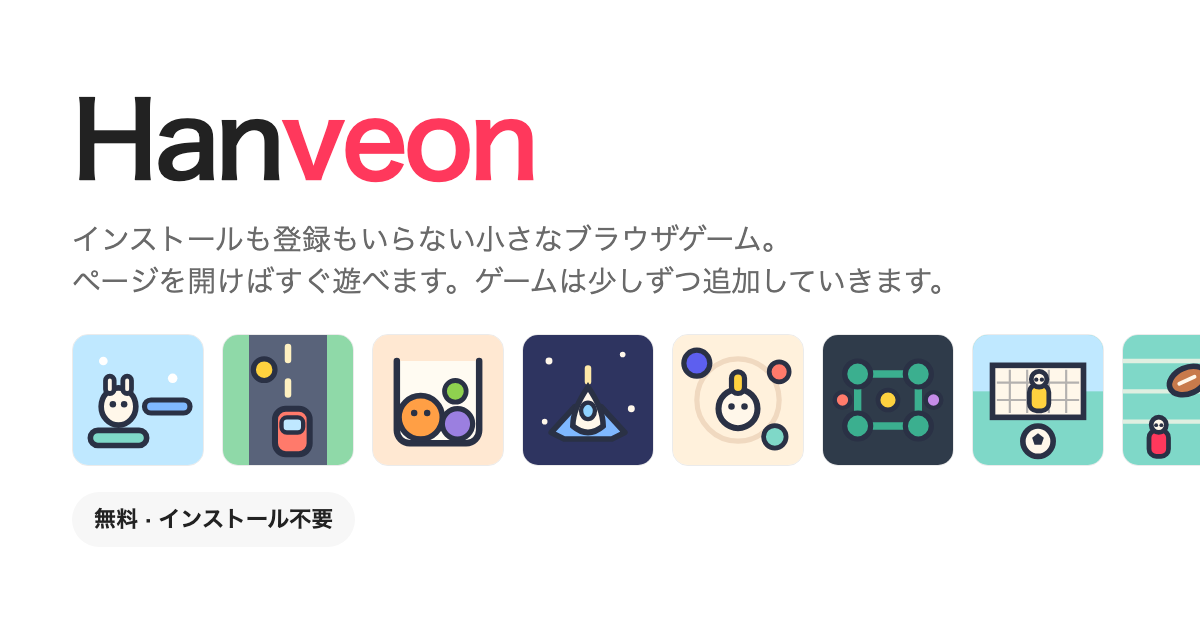
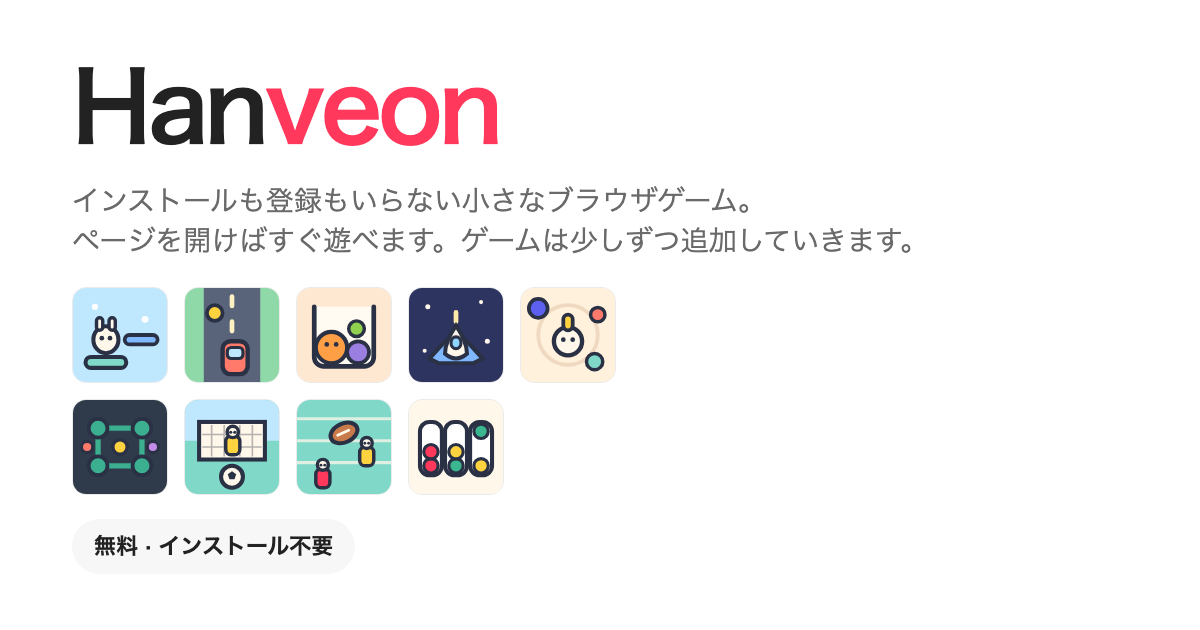
대문 대표 그림 — 게임이 늘어도 안 잘리게

Changed region(s): [[0.0617, 0.0905, 1.0, 0.9048]]

diff --git a/_tasks/2026-08-24-대문-대표그림-잘림-고치기.md b/_tasks/2026-08-24-대문-대표그림-잘림-고치기.md
@@ -1,0 +1,234 @@
+# 대문 대표 그림이 잘리는 것 고치기
+
+> **급하다.** 카톡·트위터에 `hanveon.com` 을 붙이면 나오는 그림이 지금 깨져 있다.
+> 게임 여덟 개 때부터(휙휙 패스) 그랬고, 아홉 개인 지금은 하나가 아예 안 나온다.
+
+## 무엇이 문제인가
+
+`scripts/make-og.mjs` 의 게임 그림 줄이 **132px 고정 · 줄바꿈 없음**이다.
+
+```
+게임 7개 → 7×132 + 6×18 = 1104px   들어감
+게임 8개 →                1254px   여덟째가 반쯤 잘림
+게임 9개 →                1332px   아홉째는 화면 밖
+```
+
+그림은 1200px 이다. **아홉째가 화면 밖이라 다시 만들어도 그림이 안 바뀐다** —
+`home` 그림 여섯 장이 바이트까지 똑같이 나온다.
+
+**이건 지시서를 쓴 쪽의 잘못이다.** 단계 4에서 게임 여섯 개에 맞춰 짜 놓고
+게임이 늘 때를 생각 안 했다. 클로드 코드는 「손댈 파일」에 없어서 안 건드린 것이 맞다.
+
+## 어떻게 고치나
+
+**게임 개수를 보고 크기와 줄 수를 정한다.** 일곱까지는 한 줄, 그 위는 두 줄.
+
+| 게임 수 | 한 줄에 | 크기 |
+|---|---|---|
+| 6 | 6개 | 132px |
+| 7 | 7개 | 129px |
+| **9 (지금)** | **5개 · 두 줄** | **96px** |
+| 14 | 7개 · 두 줄 | 96px |
+| 20 | 10개 · 두 줄 | 85px |
+| 22 | 11개 · 두 줄 | 76px |
+
+22개까지 안 잘린다. 그 위로 가면 **뒤를 빼고 화면에 알린다** — 조용히 빠지지 않는다.
+
+> **이 지시서는 실제로 넣고 돌려서 확인했다.** 아홉 개가 두 줄(5+4)로 다 들어가고,
+> 세로도 안 넘치고, 게임 그림 54장은 전과 같다. 아래 코드가 그때 쓴 것 그대로다.
+
+---
+
+## 손댈 파일
+
+1. `scripts/make-og.mjs` — 세 군데
+2. `design/new-game-checklist.md` — 확인 한 줄
+3. 그러고 나서 `node scripts/make-og.mjs`
+
+**다른 것은 아무것도 안 건드린다.** 게임·대문·읽는 쪽·글 전부 그대로.
+
+---
+
+## 1. `scripts/make-og.mjs`
+
+### 1-1. CSS 의 대문 칸을 갈아 끼운다
+
+`CSS` 안의 이 덩어리를
+
+```css
+  /* 대문 그림 — 그림 여섯을 한 줄로 늘어놓는다 */
+  body.home{flex-direction:column;align-items:flex-start;justify-content:center;gap:22px}
+  .home .name{font-size:104px}
+  .home .desc{font-size:29px;max-width:1000px}
+  .arts{display:flex;gap:18px;margin-top:10px}
+  .arts .art{width:132px;height:132px;border-radius:16px;border:1px solid ${BEBE}}
+```
+
+아래로 바꾼다. **크기를 CSS 에서 빼고 자바스크립트가 정하게 한다.**
+
+```css
+  /* 대문 그림 — 게임 그림을 늘어놓는다.
+     크기와 줄 수는 artsLayout() 이 게임 개수를 보고 정한다.
+     예전에는 132px 한 줄 고정이라 여덟 개부터 잘려 나갔다. */
+  body.home{flex-direction:column;align-items:flex-start;justify-content:center;gap:20px}
+  .home .name{font-size:96px}
+  .home .desc{font-size:28px;max-width:1000px}
+  .arts{display:flex;flex-wrap:wrap;margin-top:6px}
+  .arts .art{flex:none;border-radius:14px;border:1px solid ${BEBE}}
+```
+
+> **주의 — 이 덩어리는 백틱 템플릿 문자열 안이다.**
+> 주석에 백틱(`` ` ``)을 쓰면 문자열이 거기서 끊겨 빌드가 깨진다.
+> 위 주석에 `artsLayout()` 을 백틱 없이 적어 둔 것이 그 때문이다. **그대로 쓴다.**
+> (지시서를 쓰면서 실제로 이 오류를 냈다.)
+
+세로를 줄인 세 곳 — `gap` 22→20, 이름 104→96, 설명 29→28 —
+**두 줄이 세로로 안 넘치게 하려고 그런 것이다.** 되돌리지 않는다.
+
+### 1-2. `gameCard` 와 `homeCard` 사이에 넣는다
+
+```js
+/* ── 대문 그림의 게임 그림 늘어놓기 ────────────────────
+   게임이 늘어도 안 잘리게, 개수를 보고 크기와 줄 수를 정한다.
+   일곱까지는 한 줄, 그 위는 두 줄. 두 줄이 넘치면 뒤를 빼고 알린다. */
+const ARTS_W = 1000;        // 설명 글 칸과 같은 너비
+const ARTS_GAP = 16;
+const ARTS_MAX1 = 132;      // 한 줄일 때 최대 크기
+const ARTS_MAX2 = 96;       // 두 줄일 때 최대 크기 (세로가 모자란다)
+const ARTS_MIN = 70;        // 이보다 작아지면 뒤를 잘라낸다
+
+function artsLayout(n) {
+  const rows = n <= 7 ? 1 : 2;
+  const max = rows === 1 ? ARTS_MAX1 : ARTS_MAX2;
+  let shown = n;
+  for (;;) {
+    const per = Math.ceil(shown / rows);
+    const size = Math.min(max, Math.floor((ARTS_W - (per - 1) * ARTS_GAP) / per));
+    if (size >= ARTS_MIN || shown <= 1) {
+      return { size, per, shown, rowW: per * size + (per - 1) * ARTS_GAP };
+    }
+    shown--;
+  }
+}
+
+/* 자리가 모자라 뺀 것이 있으면 조용히 넘어가지 않고 알린다 */
+{
+  const L = artsLayout(GAMES.length);
+  if (L.shown < GAMES.length) {
+    console.warn(`[og] 대문 그림 — 게임 ${GAMES.length}개 중 ${L.shown}개만 넣었다. ` +
+                 `뒤 ${GAMES.length - L.shown}개가 빠진다. 줄 수를 늘리거나 크기를 줄여야 한다.`);
+  }
+}
+```
+
+### 1-3. `homeCard` 를 갈아 끼운다
+
+```js
+function homeCard(lang) {
+  const t = UI[lang];
+  const L = artsLayout(GAMES.length);
+  return `<!doctype html><html lang="${lang}"><head><meta charset="utf-8">
+<style>${CSS(lang)}</style></head><body class="home">
+<div class="name">Han<span style="color:${RAUSCH}">veon</span></div>
+<div class="desc">${esc(t.metaDesc)}</div>
+<div class="arts" style="width:${L.rowW}px;gap:${ARTS_GAP}px">${GAMES.slice(0, L.shown)
+  .map((g) => `<div class="art" style="width:${L.size}px;height:${L.size}px">${g.art}</div>`).join('')}</div>
+<div class="tag">${esc(t.freeTag)}</div>
+</body></html>`;
+}
+```
+
+칸 너비를 `rowW` 로 못 박는 것이 요점이다. 그래야 한 줄에 정확히 `per` 개가 들어간다.
+
+---
+
+## 2. `design/new-game-checklist.md`
+
+6번 「대표 그림 다시 만들기」의 이 줄을
+
+```
+**안 돌리면 새 게임만 그림이 없다.** 만들고 나서 `public/og/` 에서 한 장은 눈으로 연다
+```
+
+아래로 바꾼다. **게임 그림만 보면 이번 같은 것을 못 잡는다.**
+
+```
+**안 돌리면 새 게임만 그림이 없다.** 만들고 나서 **두 장**을 눈으로 연다 —
+새 게임 그림 한 장, 그리고 **`home-ko.png`**. 대문 그림에는 게임 그림이 다 들어가는데,
+자리가 모자라면 뒤가 잘린다. 2026-08-24에 게임 여덟 개부터 잘리고 있던 것을
+두 판이나 지나서야 알았다. 새 게임을 넣을 때마다 대문 그림을 꼭 본다
+```
+
+---
+
+## 3. 그림 다시 만들기
+
+```bash
+node scripts/make-og.mjs
+```
+
+---
+
+## 하지 말 것
+
+- 게임 그림(`gameCard`)의 생김새를 건드리지 않는다. 54장은 전과 같아야 한다
+- 위 주석에 백틱을 넣지 않는다 (1-1의 주의)
+- 세로를 줄인 세 값을 되돌리지 않는다
+- 게임·대문·읽는 쪽·글을 건드리지 않는다
+- 자리가 모자랄 때 **조용히 빼지 않는다.** 알리는 줄을 지우지 않는다
+
+---
+
+## 끝났다는 신호
+
+- `public/og/home-ko.png` 를 열면 **게임 그림 아홉 개가 다 보인다.** 두 줄이다
+- 오른쪽·아래로 잘린 것이 없다
+- 게임 그림 54장은 전과 같다
+
+---
+
+## 확인 차례
+
+```bash
+node scripts/make-og.mjs
+npm run build
+```
+
+**대문 그림 여섯 장을 다 눈으로 연다.** 이게 이번 확인의 전부다.
+
+```bash
+ls -la public/og/home-*.png
+```
+
+여섯 장이 **서로 다른 크기**여야 한다. 나라말마다 설명 글이 다르기 때문이다.
+바이트까지 같은 것이 있으면 아직 뭔가 잘린 것이다.
+
+**게임 개수가 늘어도 되는지 셈으로 본다.**
+
+```bash
+node -e '
+const W=1000,G=16,A1=132,A2=96,MIN=70;
+function L(n){const r=n<=7?1:2,m=r===1?A1:A2;let s=n;
+  for(;;){const p=Math.ceil(s/r),z=Math.min(m,Math.floor((W-(p-1)*G)/p));
+    if(z>=MIN||s<=1)return{z,p,s};s--;}}
+for(const n of [7,8,9,10,14,20,22,24]){const x=L(n);
+  console.log(`게임 ${n}개 → 한 줄 ${x.p}개 · ${x.z}px · 보임 ${x.s}`);}
+'
+```
+
+`22개`까지는 「보임」이 게임 수와 같아야 하고, `24개`에서만 줄어야 한다.
+
+- [ ] `home-ko.png` 에 게임 아홉 개가 다 보인다
+- [ ] 여섯 나라말 대문 그림이 서로 크기가 다르다
+- [ ] 한국말·일본말·중국말이 네모(두부)로 안 나온다
+- [ ] 게임 그림 한 장을 열어 전과 같은지 본다
+- [ ] 위 셈에서 22개까지 안 빠진다
+- [ ] `npm run build` 통과
+
+다 되면 커밋하고 민다.
+
+```
+git add -A
+git commit -m "대문 대표 그림 — 게임이 늘어도 안 잘리게"
+git push
+```

diff --git a/design/new-game-checklist.md b/design/new-game-checklist.md
@@ -118,7 +118,10 @@ node scripts/make-og.mjs
 ```
 
 Chromium 이 필요하다. 없으면 스크립트가 어떻게 하라고 알려 준다.
-**안 돌리면 새 게임만 그림이 없다.** 만들고 나서 `public/og/` 에서 한 장은 눈으로 연다
+**안 돌리면 새 게임만 그림이 없다.** 만들고 나서 **두 장**을 눈으로 연다 —
+새 게임 그림 한 장, 그리고 **`home-ko.png`**. 대문 그림에는 게임 그림이 다 들어가는데,
+자리가 모자라면 뒤가 잘린다. 2026-08-24에 게임 여덟 개부터 잘리고 있던 것을
+두 판이나 지나서야 알았다. 새 게임을 넣을 때마다 대문 그림을 꼭 본다
 — 한국말·일본말·중국말이 네모(두부)로 나오면 글꼴이 없는 것이다.
 
 ## 7. 확인
